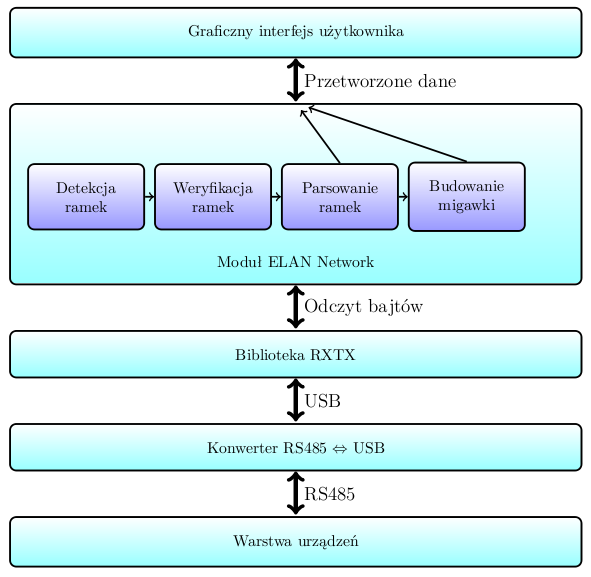
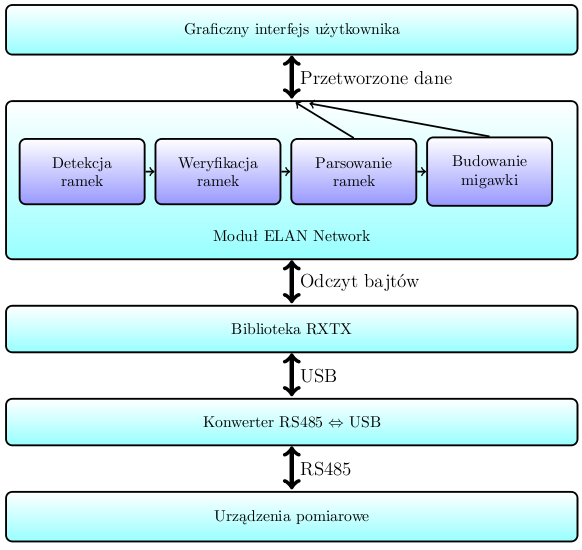
Next part of image.

Changed region(s): [[0.0, 0.0927, 1.0, 0.9891], [0.0, 0.0, 1.0, 0.1236]]

diff --git a/Articles/tikz/app_structure.tex b/Articles/tikz/app_structure.tex
@@ -18,7 +18,7 @@
 	\node[bottom color=blue!40, mynode, text width=2cm, right=of c] (d) {Budowanie migawki}; 
 	\node[bottom color=cyan!40, mynode, text width=12cm, below=1cm of elanNetwork] (rxtx) {Biblioteka RXTX}; 
 	\node[bottom color=cyan!40, mynode, text width=12cm, below=1cm of rxtx] (conv) {Konwerter RS485 $\Leftrightarrow$ USB};   		
-	\node[bottom color=cyan!40, mynode, text width=12cm, below=1cm of conv] (devices) {Warstwa urządzeń};	
+	\node[bottom color=cyan!40, mynode, text width=12cm, below=1cm of conv] (devices) {Urządzenia pomiarowe};	
 
 	\draw[myarrow] (gui.south) -- (elanNetwork.north) node [midway,black] {Przetworzone dane};
 	\draw[myarrow] (elanNetwork.south) -- (rxtx.north) node [midway,black] {Odczyt bajtów};	
